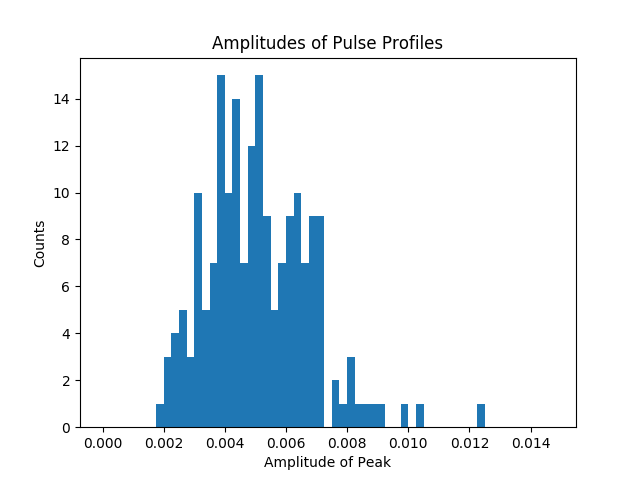
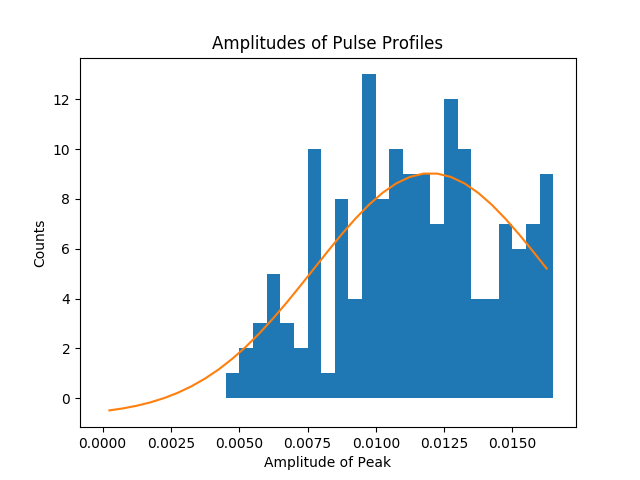
updated

diff --git a/PulseCharacteristics/ampfit3.py b/PulseCharacteristics/ampfit3.py
@@ -134,7 +134,7 @@ def fit(pulsarname, timewidth):
     if (pulsarname == '1937'):
         binwidths = list(np.arange(0, 0.017, 0.0005))
     if (pulsarname == '1821'):
-        binwidths = list(np.arange(0,0.015 , 0.00025))
+        binwidths = list(np.arange(0, 0.02, 0.00025))
     if (pulsarname == 'crab'):
         binwidths = list(np.arange(16, 20, 0.1))
     plt.hist(amplitudes, bins = binwidths) # makes histogram of amplitudes
@@ -188,9 +188,9 @@ mean2 = []
 errorbars = []
 timewidth=[]
 for twidth in range(1800, 9000, 900):
-    if (twidth == 1800):
-        twidth = 2100
-    m, w, w2, m2 = fit('1937', twidth)
+   # if (twidth == 1800):
+    #    twidth = 2100
+    m, w, w2, m2 = fit('1821', twidth)
     mean.append(m)
     width.append(w)
     width2.append(w2)
